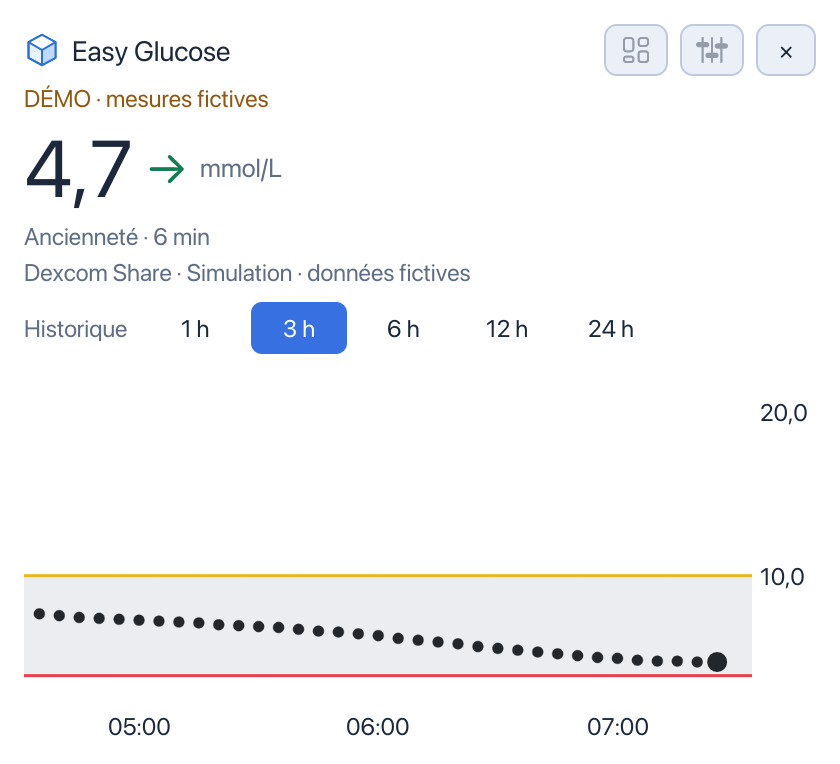
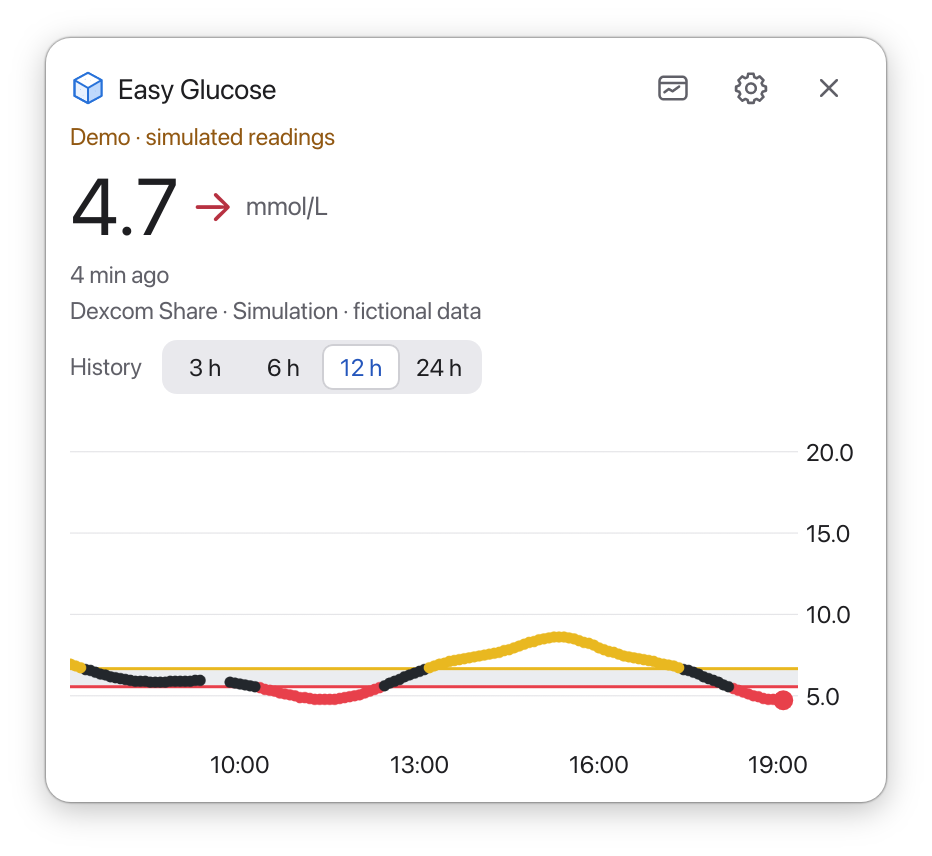
Refresh the download guide and native screenshots
Link the three platform archives and explain shared chart periods, guide colors and local history.
Replace the dashboard, widget and menu preview images with current macOS demo captures.

diff --git a/README.md b/README.md
@@ -1,15 +1,29 @@
 <p align="center"><img src="assets/icon.png" alt="" width="86"></p>
 <h1 align="center">Easy Glucose</h1>
-<p align="center">View your glucose in the menu bar, in a floating widget, or on a 24-hour chart.</p>
+<p align="center">Follow your glucose in a compact desktop window, a floating widget, or the macOS menu bar.</p>
 <p align="center"><a href=".github/workflows/build.yml"><img src="https://github.com/DwennK/Easy-Glucose/actions/workflows/build.yml/badge.svg" alt="Native builds and tests"></a> · Rust · macOS and Windows · <a href="LICENSE">MIT License</a></p>
 
-<p align="center"><a href="#try-the-demo">Try the demo</a> · <a href="#three-views">Explore the views</a> · <a href="#connect-a-data-source">Connect a data source</a> · <a href="#build-from-source">Build from source</a></p>
+<p align="center"><a href="#download">Download</a> · <a href="#try-the-demo">Try the demo</a> · <a href="#three-views">Explore the views</a> · <a href="#connect-a-data-source">Connect a data source</a> · <a href="#build-from-source">Build from source</a></p>
 
-![Native dashboard showing six hours of simulated glucose readings in mmol/L](docs/images/dashboard.png)
+<p align="center"><img src="docs/images/dashboard.png" width="600" alt="Easy Glucose dashboard with 12 hours of simulated readings in mmol/L. Red and yellow dots mark readings outside the selected guides."></p>
+
+## Download
+
+Choose the ZIP for your computer from the [latest release](https://github.com/DwennK/Easy-Glucose/releases/latest).
+
+| Platform | Download | Open |
+| --- | --- | --- |
+| Mac with Apple silicon | [macOS ARM64](https://github.com/DwennK/Easy-Glucose/releases/latest/download/Easy-Glucose-aarch64-apple-darwin.zip) | Unzip and move **Easy Glucose.app** to Applications. |
+| Mac with an Intel processor | [macOS Intel](https://github.com/DwennK/Easy-Glucose/releases/latest/download/Easy-Glucose-x86_64-apple-darwin.zip) | Unzip and move **Easy Glucose.app** to Applications. |
+| Windows x64 | [Windows x64](https://github.com/DwennK/Easy-Glucose/releases/latest/download/Easy-Glucose-x86_64-pc-windows-msvc.zip) | Extract the folder and open **Easy Glucose.exe**. |
+
+The macOS apps are ad hoc signed and have not been notarized by Apple. The Windows executable is unsigned.
 
 ## Try the demo
 
-With stable Rust and your platform’s build tools installed, run the following commands. The demo uses simulated readings and requires no account. The screenshots in this README show the demo running on macOS.
+Open Easy Glucose and choose **Try the demo** on the welcome screen, or find it under **Settings → Advanced options**. The screenshots in this README use the macOS demo with example low and high guides.
+
+To run the demo from source, install stable Rust and your platform’s build tools, then run:
 
 ```sh
 git clone https://github.com/DwennK/Easy-Glucose.git
@@ -17,7 +31,7 @@ cd Easy-Glucose
 cargo run --release --locked -- --demo
 ```
 
-To view your own readings, run `cargo run --release --locked` and open **Settings → Data sources**. Easy Glucose shows how old each reading is. Use it as a secondary display and rely on your sensor’s official app for alarms and treatment decisions.
+To view your own readings, open **Settings → Data sources**, choose your provider and sign in. A green checkmark confirms a successful connection. Easy Glucose shows how old each reading is. Use it as a secondary display and rely on your sensor’s official app for alarms and treatment decisions.
 
 ## Three views
 
@@ -26,7 +40,9 @@ To view your own readings, run `cargo run --release --locked` and open **Setting
 | <img src="docs/images/menu-preview.png" width="420" alt="Compact glucose preview with two action buttons and a close button in the upper right"> | <img src="docs/images/widget.png" width="320" alt="Floating widget showing the glucose value, trend, reading time, and chart"> |
 | Click the glucose value to open the chart. The two buttons next to the close button open the dashboard and settings. Press Esc or click outside the preview to close it. | Drag the widget by its header. It remembers its position. Choose from three sizes and turn on **Always on top** to keep your reading visible over other windows. |
 
-In **My glucose**, choose a time range of 3, 6, 12, or 24 hours. Each point represents a reading, and gaps in the data remain visible. Hover over the chart to see the value and time of the nearest reading. Readings at least ten minutes old are marked as stale, even when the connection is working.
+Choose **3, 6, 12, or 24 hours** in any chart. The dashboard, widget and menu bar preview share the selected period. Each dot is a sensor reading. Red dots fall below your low guide and yellow dots rise above your high guide. Gaps in the data remain visible. Hover over a chart to inspect a reading and its time.
+
+The dashboard shows the latest value and trend arrow on the left. On the right, the change compares the last two readings when they are close enough in time. Readings at least ten minutes old are marked as stale, even when the connection is working.
 
 Right-click the macOS menu bar item or open the Windows system tray menu to access the main window, settings, and floating widget, or to quit the app.
 
@@ -38,7 +54,7 @@ Right-click the macOS menu bar item or open the Windows system tray menu to acce
 | **FreeStyle Libre · LibreLinkUp** | Use a LibreLinkUp account that has accepted a sharing invitation. If several people share data with you, choose whose readings to display. |
 | **Nightscout / Nocturne** | Enter the site’s HTTPS URL. For a private site, provide a read token. Public sites work without a token. API secret authentication is also available. |
 
-Credentials are stored in macOS Keychain or Windows Credential Manager. Easy Glucose keeps a separate local history for each source and associates it with the relevant account, person, or site. The app does not encrypt the local readings file. The Dexcom Share and LibreLinkUp connections use unofficial protocols. [How the connectors work and their limitations (in French)](docs/sources.md)
+Credentials are stored in macOS Keychain or Windows Credential Manager. Easy Glucose keeps a separate local history for each source and associates it with the relevant account, person, or site. **Settings → Advanced options → Clear history** removes the active source’s local readings. Your sign-in and scheduled sync are preserved. The provider may return recent readings again on the next sync. The app does not encrypt the local readings file. The Dexcom Share and LibreLinkUp connections use unofficial protocols. [How the connectors work and their limitations (in French)](docs/sources.md)
 
 ## Languages and units
 
@@ -59,7 +75,7 @@ python3 scripts/licenses.py
 python3 scripts/package.py
 ```
 
-On macOS, open `dist/Easy Glucose.app`. On Windows, run the two packaging scripts with `python`, then open `dist/Easy-Glucose-Windows/Easy Glucose.exe`. CI also produces archives for Apple Silicon Macs, Intel Macs, and Windows x64. The macOS bundles are ad hoc signed and have not been notarized by Apple. The Windows executable is unsigned. [Build and distribution guide (in French)](docs/distribution.md)
+On macOS, open `dist/Easy Glucose.app`. On Windows, run the two packaging scripts with `python`, then open `dist/Easy-Glucose-Windows/Easy Glucose.exe`. [Build and distribution guide (in French)](docs/distribution.md)
 
 ## Code layout
 
